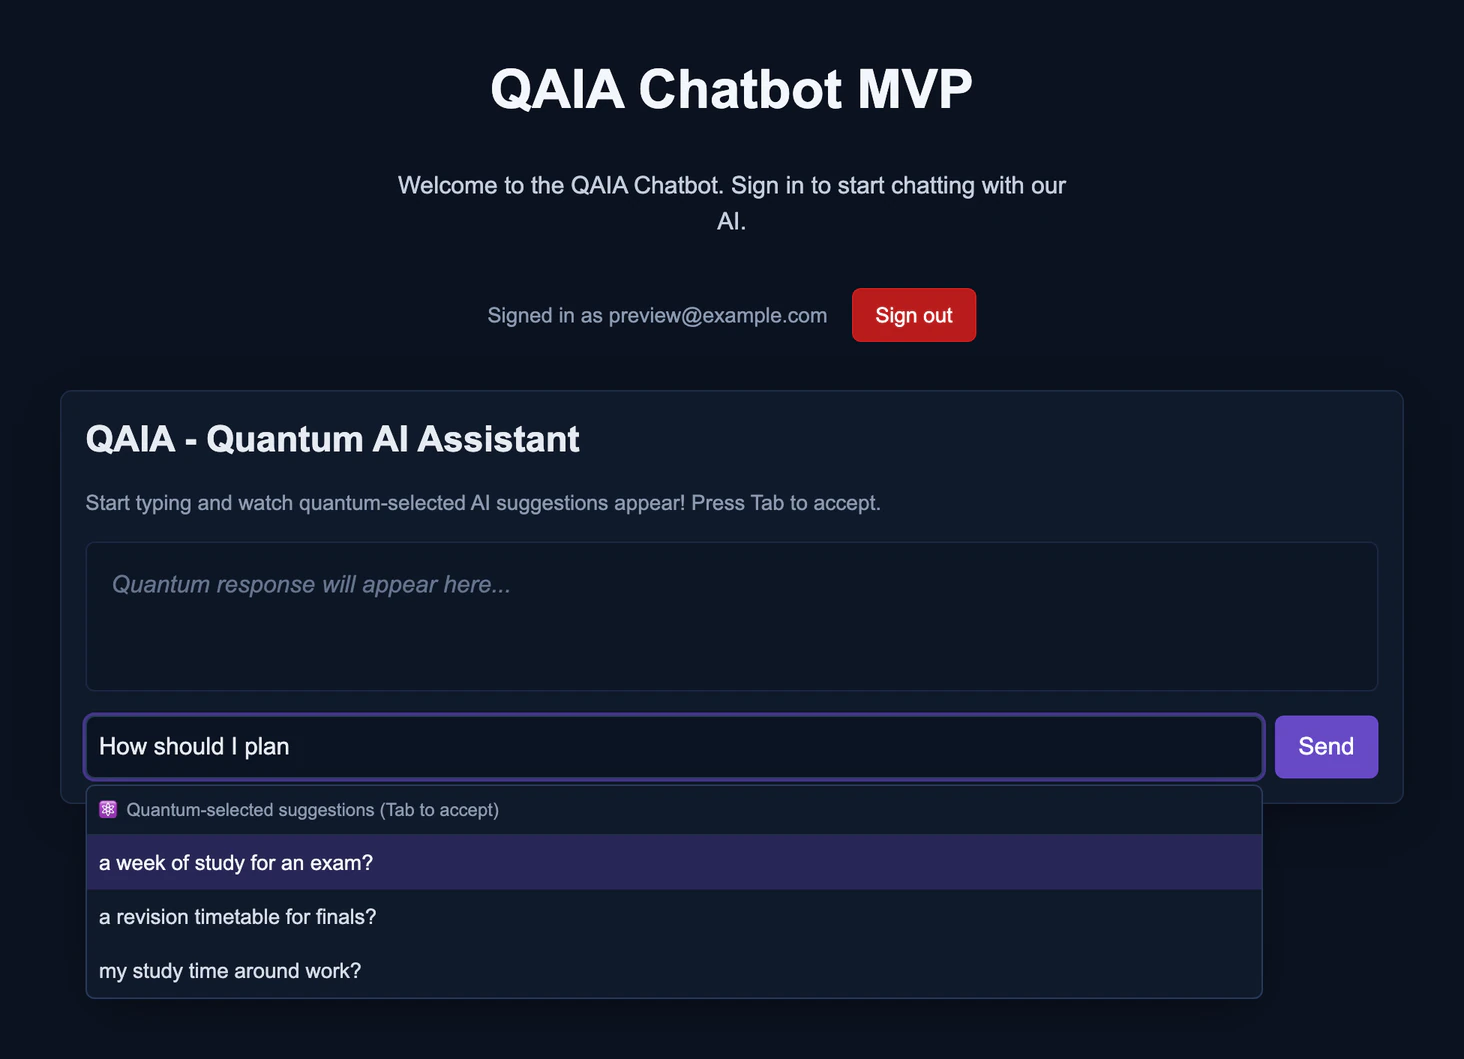
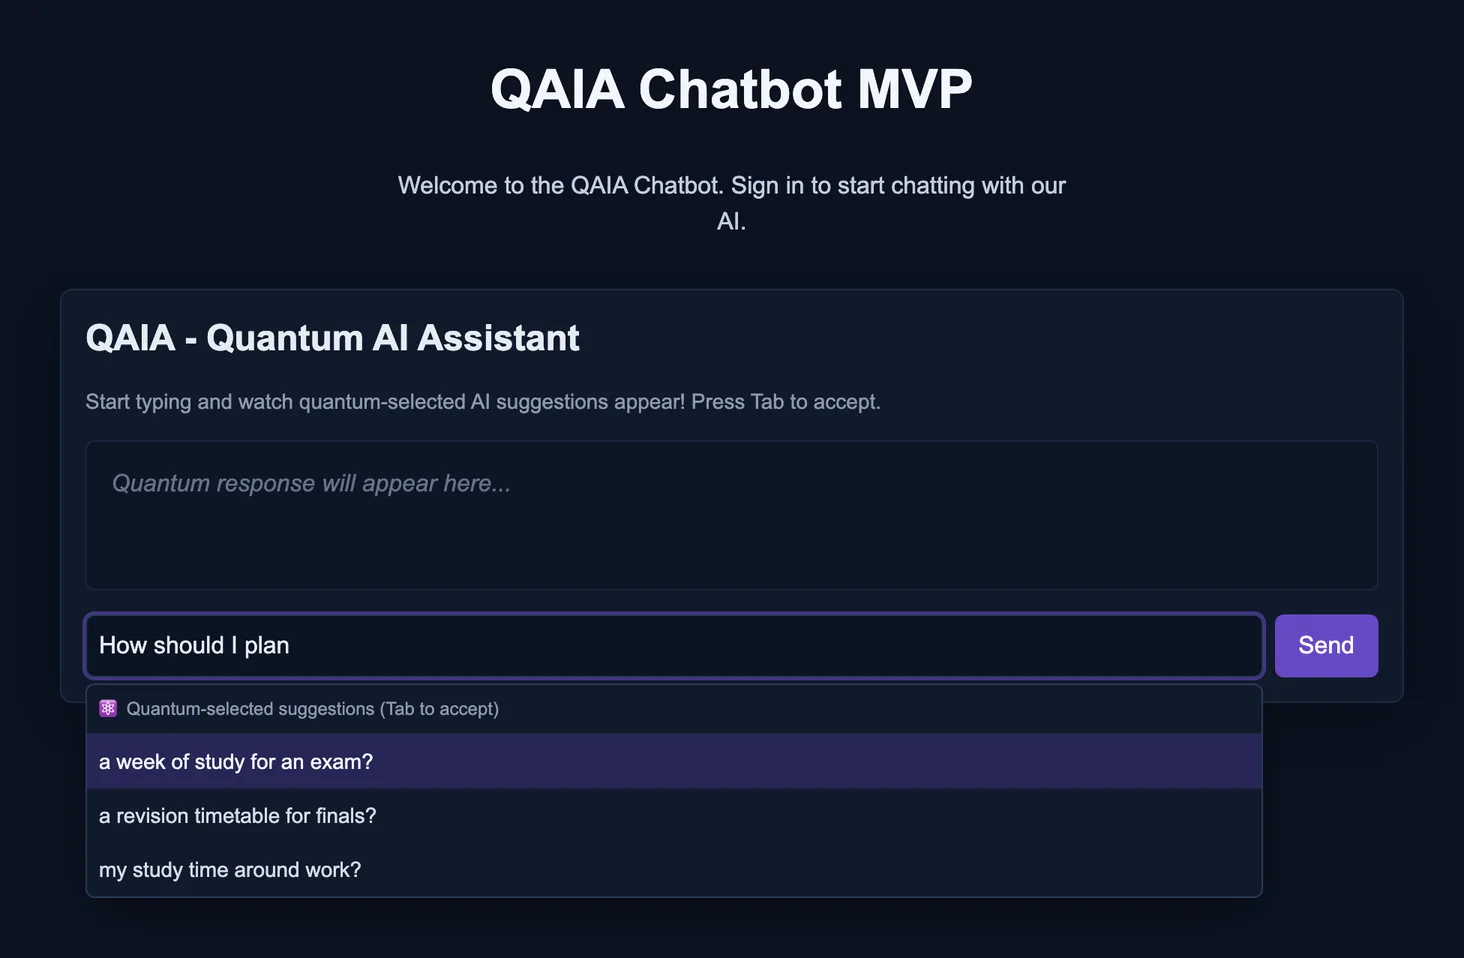
Experiments: add QAIA routing circuit run on IBM Quantum ibm_fez
Adds the 20 October 2026 run (job dbbnng7i0auc73940qs0, 1,024 shots,
Heron r2) with circuit, route table, histogram and status card. States
that the 2025 app used a simulated measurement and never called IBM.
Crops the placeholder sign-in bar out of the QAIA screenshots.

diff --git a/docs/experiments.md b/docs/experiments.md
@@ -15,7 +15,7 @@ The experiments are not the SENEX product and are not AIA. Nothing in them has v
 | --- | --- | --- | --- |
 | [Agents over a chain, with a fee](https://aia.senexic.io) | Asking agents for answers over a chain and paying per answer | Polygon Amoy testnet (test tokens) | Experiment |
 | [AIA on TON](https://aiat.senexic.io) | AIA answering through the TON blockchain and the Cocoon inference network | TON and Cocoon (connection paused) | Paused; interface and design only |
-| [QAIA — quantum branching](#qaia--quantum-branching) | One question branching into several candidate answers, with a measurement choosing which ones surface | None (simulated measurement; no quantum backend) | Concept · not running; screenshots only |
+| [QAIA — quantum branching](#qaia--quantum-branching) | One question branching into several candidate answers, with a measurement choosing which ones surface | App: simulated measurement. Routing circuit: IBM Quantum ibm_fez, run separately | Concept; routing circuit run on IBM hardware |
 
 ## Agents over a chain, with a fee
 
@@ -55,7 +55,7 @@ An early prototype exploring how AIA — Artificial Intelligent Assistant — co
 
 ## QAIA — quantum branching
 
-*Concept · not running* · screenshots only
+*Concept · not running* · routing circuit run on IBM Quantum hardware
 
 A 2025 concept prototype. One question branches into several candidate answers, and a quantum measurement chooses which branches surface, with the circuit shown alongside. In the prototype the selection step used a simulated measurement; a quantum backend was not connected. Screenshots show the prototype interface with example content.
 
@@ -63,7 +63,7 @@ How the prototype was put together:
 
 - A language model (zephyr-7b, through Hugging Face) generated several candidate answers to one prompt.
 - The interface showed a main response, the other branches as "Quantum Branching Answers", and a circuit panel with the measurement and shot count.
-- The circuits were OpenQASM text templates (Hadamard superposition, Grover, QFT). They were displayed, not run: the selection used a pseudo-random number in place of a measurement, and no IBM Quantum backend was ever connected.
+- The circuits were OpenQASM text templates (Hadamard superposition, Grover, QFT). In the app they were displayed, not run: the selection used a pseudo-random number in place of a measurement, and the app never called an IBM Quantum backend.
 - QAIA is not deployed and has no live session. It is a concept for how branching answers could be presented.
 
 ![QAIA prototype: the question "How should I plan a week of study for an exam?" with a main answer and three branching answers labelled Topic-first, Practice-first and Rhythm-first](/img/experiments/qaia-dark-branching.webp)
@@ -77,6 +77,59 @@ How the prototype was put together:
 ![QAIA prototype input box with the partial question "How should I plan" and a dropdown of three suggested completions, accepted with the Tab key](/img/experiments/qaia-dark-autocomplete.webp)
 
 *Prototype interface shown in a dark theme, example content: suggested completions while typing.*
+
+### Run on IBM Quantum hardware
+
+The routing circuit was run on IBM Quantum hardware, separately from the app. The 2025 QAIA app itself used a simulated measurement and never called IBM.
+
+The idea being tested is simple: quantum randomness chooses between answer routes. Two qubits are put into an equal superposition and measured, and the two resulting bits pick one of four routes for answering a question. This makes no claim of quantum advantage; the measurement is only a source of randomness for the choice.
+
+- **Backend:** ibm_fez
+- **Processor:** IBM Heron r2, 156 qubits
+- **Date:** 20 October 2026
+- **Shots:** 1,024
+- **Job ID:** `dbbnng7i0auc73940qs0`
+- **QPU time:** 2 s
+
+The circuit uses four qubits. Qubits q0 and q1 choose the route. Qubits q2 and q3 go through controlled-X and phase gates linked to q0 and q1; in the ideal case these leave all 16 four-bit outcomes equally likely.
+
+```text title="QAIA routing circuit (OpenQASM 2.0)"
+OPENQASM 2.0;
+include "qelib1.inc";
+qreg q[4];
+creg c[4];
+h q[0];
+h q[1];
+h q[2];
+h q[3];
+cx q[0],q[2];
+cx q[1],q[3];
+rz(pi/2) q[2];
+rz(-pi/2) q[3];
+measure q[0] -> c[0];
+measure q[1] -> c[1];
+measure q[2] -> c[2];
+measure q[3] -> c[3];
+```
+
+The route is read from the bits of q1 and q0 (the last two bits of each outcome). Out of 1,024 shots on ibm_fez:
+
+| Route | Bits (q1 q0) | Shots | Share | Ideal |
+| --- | --- | ---: | ---: | ---: |
+| A · Direct | 00 | 273 | 26.7% | 25% |
+| B · Reasoning | 01 | 256 | 25.0% | 25% |
+| C · Tool-assisted | 10 | 270 | 26.4% | 25% |
+| D · Fallback | 11 | 225 | 22.0% | 25% |
+
+Each route was picked close to a quarter of the time. With 1,024 shots, sampling alone (shot noise) moves each share by about 1.4 percentage points, and readout and gate errors on real hardware add a little more, which is why the shares are not exactly 25%.
+
+![Histogram of all 16 four-bit measurement outcomes from 0000 to 1111 on IBM ibm_fez, each between 47 and 91 counts out of 1024 shots](/img/experiments/ibm-fez-histogram.webp)
+
+*Measurement outcomes for all four qubits, IBM ibm_fez, job dbbnng7i0auc73940qs0*
+
+![IBM Quantum Platform job status card: Completed, created 20 October 2026 at 6:03 PM, pending 29 minutes 32 seconds, completed at 6:33 PM, total usage 2 seconds](/img/experiments/ibm-fez-status.webp)
+
+*Job status on IBM Quantum Platform*
 
 ## How experiments relate to SENEX
 
